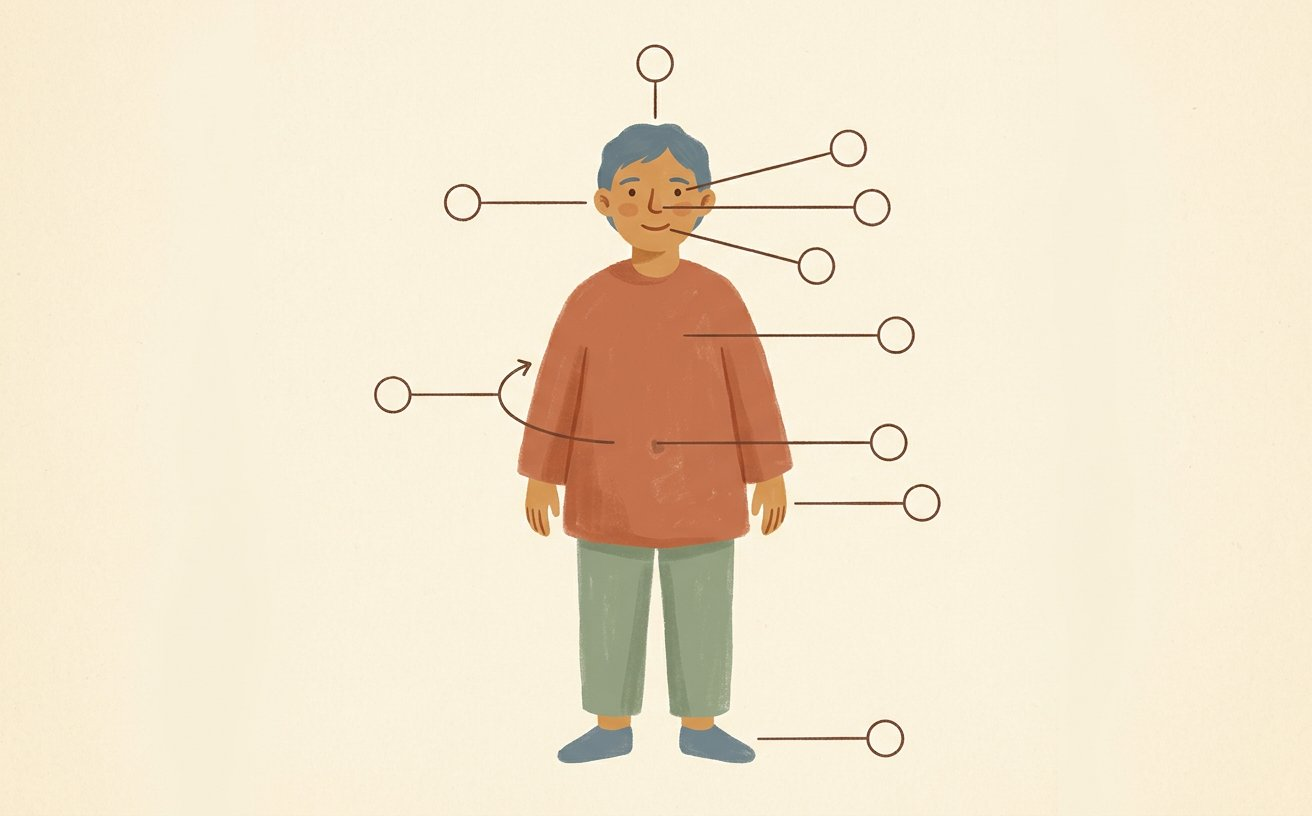
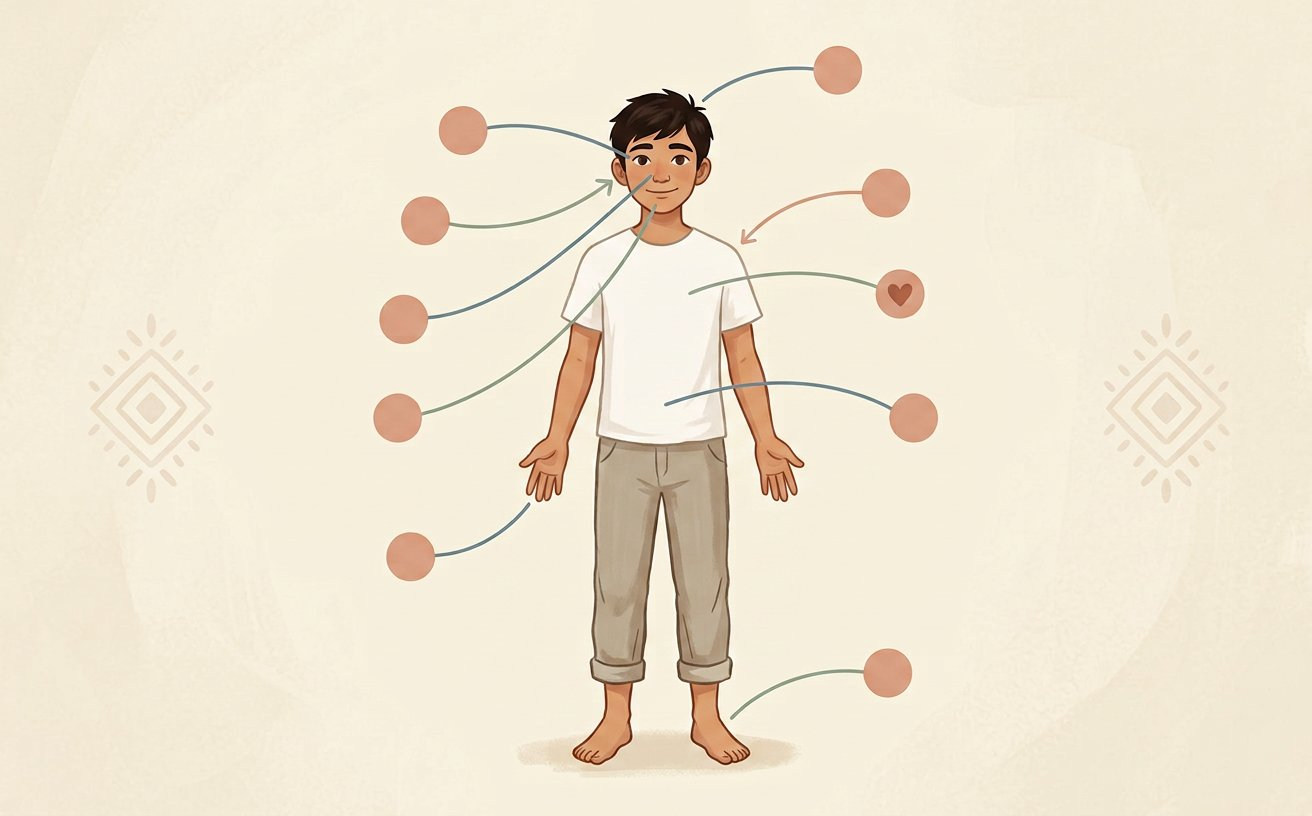
Redesigned body/clothes/senses artwork (cleaner poster style); clothing drill fully voiced

diff --git a/data/grammar.js b/data/grammar.js
@@ -765,52 +765,52 @@ const GRAMMAR = [
         ar: "القَميصُ.",
         tr: "al-qamīṣu",
         note: "Sami's mustard shirt! يَلْبَسُ قَميصًا = he wears a shirt.",
-        audio: null },
+        audio: "clothes-shirt" },
       { tag: "Trousers · بنطال", q_en: "The trousers / pants",
         ar: "البَنْطالُ.",
         tr: "al-banṭālu",
         note: "Also سِرْوال in classical usage.",
-        audio: null },
+        audio: "clothes-pants" },
       { tag: "Dress · فستان", q_en: "The dress",
         ar: "الفُسْتانُ.",
         tr: "al-fustānu",
         note: "Layla's teal dress = فُسْتان لَيْلى.",
-        audio: null },
+        audio: "clothes-dress" },
       { tag: "Jacket · معطف", q_en: "The coat / jacket",
         ar: "المِعْطَفُ.",
         tr: "al-miʿṭafu",
         note: "مِـ prefix often marks tools/objects: مِعْطَف، مِفْتاح، مِصْباح.",
-        audio: null },
+        audio: "clothes-coat" },
       { tag: "Headscarf · حجاب", q_en: "The headscarf",
         ar: "الحِجابُ.",
         tr: "al-ḥijābu",
         note: "The grandmother's headscarf. Related: وِشاح shawl.",
-        audio: null },
+        audio: "clothes-hijab" },
       { tag: "Hat · قبعة", q_en: "The hat / cap",
         ar: "القُبَّعَةُ.",
         tr: "al-qubbaʿatu",
         note: "Where was grandpa's key? في قُبَّعَتِهِ — in his hat! 🎩",
-        audio: null },
+        audio: "clothes-hat" },
       { tag: "Socks · جوارب", q_en: "The socks",
         ar: "الجَوارِبُ.",
         tr: "al-jawāribu",
         note: "Singular: جَوْرَب one sock. Plural pattern فَواعِل.",
-        audio: null },
+        audio: "clothes-socks" },
       { tag: "Shoes · حذاء", q_en: "The shoes",
         ar: "الحِذاءُ.",
         tr: "al-ḥidhāʾu",
         note: "حِذاء = a pair of shoes. New shoes = حِذاءٌ جَديدٌ.",
-        audio: null },
+        audio: "clothes-shoes" },
       { tag: "He wears · يلبس", q_en: "The boy wears a red shirt.",
         ar: "يَلْبَسُ الوَلَدُ قَميصًا أَحْمَرَ.",
         tr: "yalbasu l-waladu qamīṣan aḥmara.",
         note: "The wearing verb in action — adjective أَحْمَر follows the noun.",
-        audio: null },
+        audio: "clothes-wear" },
       { tag: "She puts on · ترتدي", q_en: "The girl puts on her coat in winter.",
         ar: "تَرْتَدي البِنْتُ مِعْطَفَها في الشِّتاءِ.",
         tr: "tartadī l-bintu miʿṭafahā fī sh-shitāʾi.",
         note: "اِرْتَدى = fancier synonym of لَبِسَ. مِعْطَفَها = her coat.",
-        audio: null }
+        audio: "clothes-wear2" }
     ],
     roles: {
       title: "Who wears what, when?",

diff --git a/index.html b/index.html
@@ -7,8 +7,8 @@
 <meta name="theme-color" content="#000000">
 <link rel="manifest" href="manifest.json">
 <link rel="preload" href="assets/fonts/msr-subset.woff2" as="font" type="font/woff2" crossorigin>
-<link rel="stylesheet" href="assets/fonts/fonts.css?v=56">
-<link rel="stylesheet" href="styles.css?v=56">
+<link rel="stylesheet" href="assets/fonts/fonts.css?v=57">
+<link rel="stylesheet" href="styles.css?v=57">
 </head>
 <body data-theme="dark">
 
@@ -287,12 +287,12 @@
   </div>
 </div>
 
-<script src="icons.js?v=56"></script>
-<script src="data/wordaudio.js?v=56"></script>
-<script src="data/wordbank.js?v=56"></script>
-<script src="data/stories.js?v=56"></script>
-<script src="data/dialogues.js?v=56"></script>
-<script src="data/grammar.js?v=56"></script>
-<script src="app.js?v=56"></script>
+<script src="icons.js?v=57"></script>
+<script src="data/wordaudio.js?v=57"></script>
+<script src="data/wordbank.js?v=57"></script>
+<script src="data/stories.js?v=57"></script>
+<script src="data/dialogues.js?v=57"></script>
+<script src="data/grammar.js?v=57"></script>
+<script src="app.js?v=57"></script>
 </body>
 </html>

diff --git a/app.js b/app.js
@@ -740,7 +740,7 @@
 
   // PWA service worker — with a self-healing version check:
   // if an outdated worker/caches are found, wipe them and reload once.
-  const APP_VERSION = "v56";
+  const APP_VERSION = "v57";
   if ("serviceWorker" in navigator) {
     if (localStorage.getItem("hikaya-app-version") !== APP_VERSION) {
       // nuke any stale workers + caches from older versions

diff --git a/sw.js b/sw.js
@@ -1,7 +1,7 @@
 /* Hikaya service worker
    v2 — network-first for app files (so updates show immediately),
    cache fallback for offline reading. Media stays cache-friendly. */
-const CACHE = "hikaya-v56";
+const CACHE = "hikaya-v57";
 const CORE = [
   "./",
   "./index.html",
